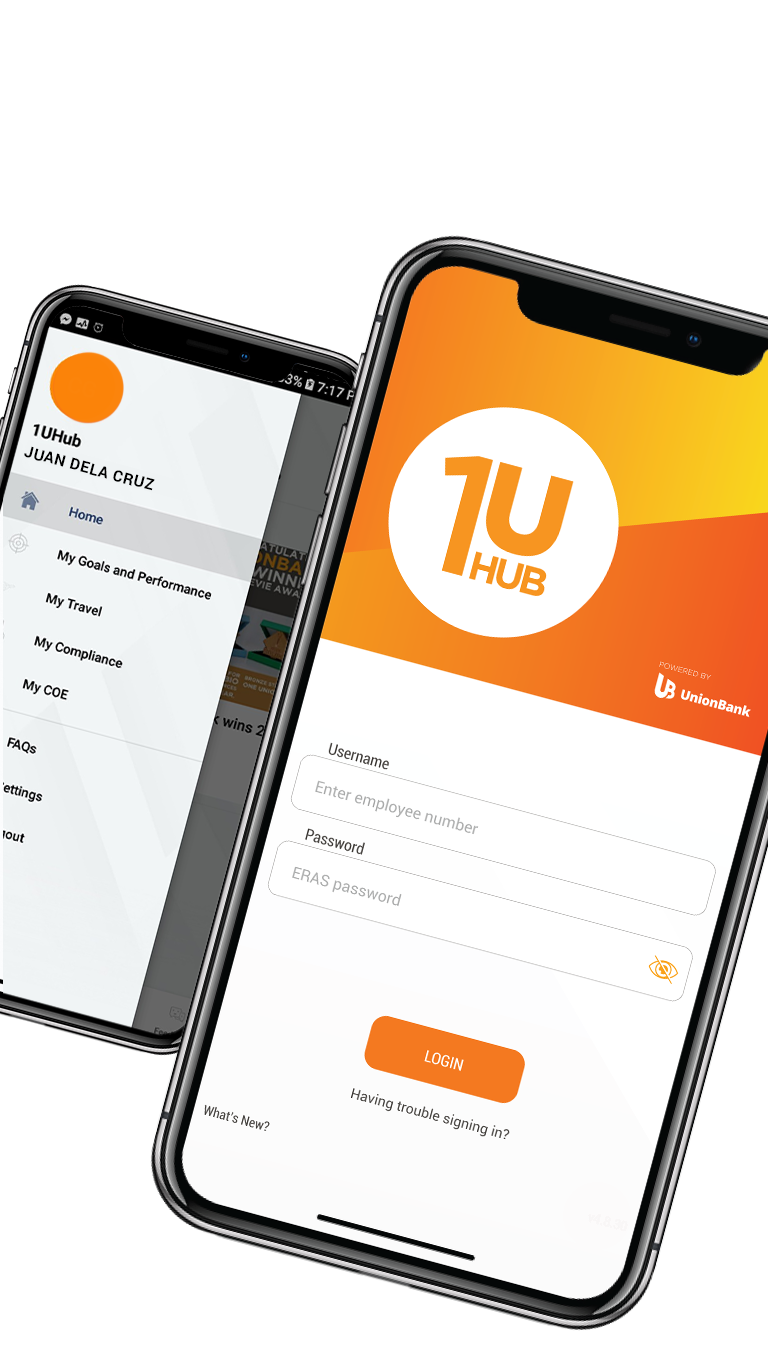
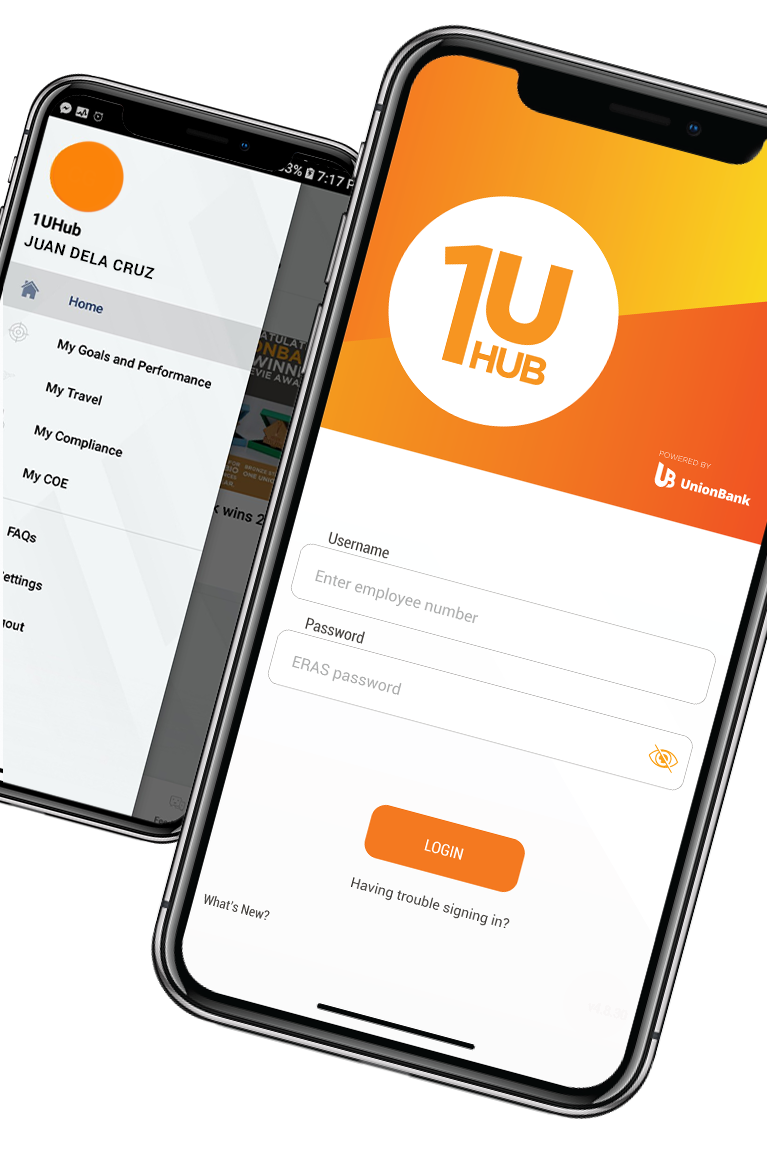
Updated mobile view remove margin top

diff --git a/src/views/mobileplatform/components/MobileHeaderComponent.js b/src/views/mobileplatform/components/MobileHeaderComponent.js
@@ -45,7 +45,7 @@ class MobileHeaderComponent extends Component {
           {
             platformUsed === 'android' ?
             <span
-              onClick = { () => this.downloadAndroid() }
+              onClick = { () =>  this.downloadAndroid() }
               className = { 'cursor-pointer mobile-view-googleplay mobile-view-googleplay-detail' }/>
             :
             <span

diff --git a/src/views/mobileplatform/MobileView.js b/src/views/mobileplatform/MobileView.js
@@ -53,7 +53,6 @@ class MobileView extends BaseMVPView {
             <img
               src = { require('../../images/mobileview/login phone.png') }
               style = {{
-                marginTop: '-120px',
                 height: '100%',
                 width : '100%'
               }}/>
